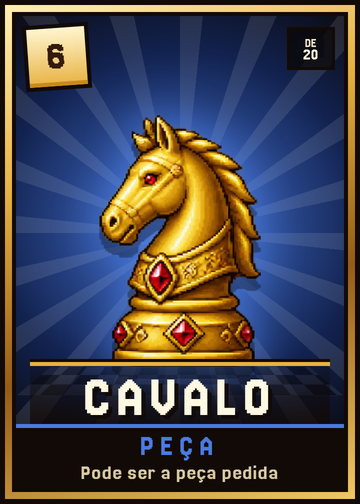
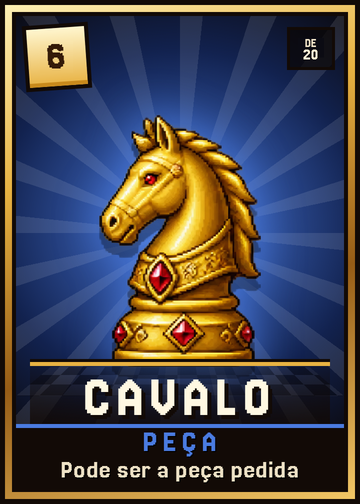
fix(xeque,home): R37.2 — círculo no centro do tabuleiro, cartas legíveis, cartas viram devagar, SAIR só com a palavra
- XEQUE: o tapete com a coroa volta ao centro do xadrez (estava 44 px abaixo); casas refeitas com as
  próprias casas da arte (tools/xeque_center_mat.py); monte e revelação acompanham o centro
- cartas do XEQUE: faixa de baixo redesenhada maior (PEÇA/CORINGA e a frase) e desenho nítido na mão
- XEQUE pedido: as cartas viram uma a uma, devagar (0,7 s cada), com som por carta; revelação 3,2 s
  (servidor espera o mesmo)
- Home: SAIR sem "Até a próxima partida!" e sem a legenda "Voltar para o site" por cima

Claude-Session: https://claude.ai/code/session_016vKvXoMfUjcNC2AWvYdkWV

Changed region(s): [[0.1528, 0.8333, 0.825, 0.9821]]

diff --git a/online_v021/modes/party.js b/online_v021/modes/party.js
@@ -26,7 +26,7 @@ const T = {
   swapMs: num(env.FRAIHA_PARTY_SWAP_MS, 3200),           // troca do J (marcha_ui.gd: 0,35 + até 2,4 + 0,35 s)
   mesaMs: num(env.FRAIHA_PARTY_MESA_MS, 4400),           // distribuição (DEAL_T 2,4 s) + carta da MESA (MESA_T 1,9 s) no xeque_ui.gd
   introMs: num(env.FRAIHA_PARTY_INTRO_MS, 3200),         // apresentação do baralho antes da 1ª rodada (INTRO_T)
-  revealMs: num(env.FRAIHA_PARTY_REVEAL_MS, 2600), clockMs: num(env.FRAIHA_PARTY_CLOCK_MS, 2400),
+  revealMs: num(env.FRAIHA_PARTY_REVEAL_MS, 3200), clockMs: num(env.FRAIHA_PARTY_CLOCK_MS, 2400),
   safeMs: num(env.FRAIHA_PARTY_SAFE_MS, 2000), mateMs: num(env.FRAIHA_PARTY_MATE_MS, 3800),
   keepEndedMs: 120000,
 };

diff --git a/tools/xeque_center_mat.py b/tools/xeque_center_mat.py
@@ -1,0 +1,52 @@
+"""R37.2 · XEQUE: o círculo (tapete com a coroa) volta ao CENTRO do tabuleiro xadrez da arte.
+Na arte aprovada ele estava 44 px abaixo do centro (centro do xadrez: x 836, y 498; tapete: y 542).
+  • as casas de xadrez debaixo do tapete antigo são refeitas com as próprias casas da arte, copiadas
+    de 2 casas ao lado (o xadrez repete a cada 131 px na horizontal e 113 px na vertical — mesma cor);
+  • o tapete (xeque/art/mesa/tapete.png, igual ao da arte) é colado de novo, centrado, com a mesma sombra.
+Entrada: tools/xeque_src/mesa_cena_com_tapete_original.png (sem alteração). Saída: xeque/art/mesa/mesa_cena_com_tapete.png
+Depois rode tools/xeque_scene_soft.py (versões esfumada e desfocada)."""
+import os
+import numpy as np
+import cv2
+from PIL import Image
+
+ROOT = os.path.join(os.path.dirname(__file__), "..")
+SRC = os.path.join(ROOT, "tools/xeque_src/mesa_cena_com_tapete_original.png")
+DST = os.path.join(ROOT, "xeque/art/mesa/mesa_cena_com_tapete.png")
+TAP = os.path.join(ROOT, "xeque/art/mesa/tapete.png")
+OLD = (715, 421)                     # canto do tapete na arte original (achado por correspondência exata)
+CENTER = (836, 498)                  # centro do xadrez
+BOARD = (583, 274, 1092, 724)        # casas do xadrez (x0, y0, x1, y1)
+PX, PY = 131, 113                    # período do xadrez (2 casas)
+
+sc = np.array(Image.open(SRC).convert("RGB")).astype(np.float64)
+tap = np.array(Image.open(TAP).convert("RGBA")).astype(np.float64)
+th, tw = tap.shape[:2]
+H, W = sc.shape[:2]
+# máscara do tapete antigo + sombra em volta (12 px)
+m = np.zeros((H, W), np.uint8)
+m[OLD[1]:OLD[1] + th, OLD[0]:OLD[0] + tw] = (tap[..., 3] > 8).astype(np.uint8)
+m = cv2.dilate(m, np.ones((31, 31), np.uint8))
+out = sc.copy()
+ys, xs = np.where(m > 0)
+cands = sorted([(k * PX, j * PY) for k in range(-4, 5) for j in range(-4, 5) if (k, j) != (0, 0)], key=lambda d: d[0] ** 2 + d[1] ** 2)
+for y, x in zip(ys, xs):
+    if not (BOARD[0] <= x <= BOARD[2] and BOARD[1] <= y <= BOARD[3]): continue
+    for dx, dy in cands:
+        sx, sy = x + dx, y + dy
+        if BOARD[0] + 2 <= sx <= BOARD[2] - 2 and BOARD[1] + 2 <= sy <= BOARD[3] - 2 and m[sy, sx] == 0:
+            out[y, x] = sc[sy, sx]
+            break
+dx, dy = CENTER[0] - (OLD[0] + tw / 2), CENTER[1] - (OLD[1] + th / 2)
+# sombra suave do tapete (como a da arte): alfa desfocado, um pouco para baixo
+nx0, ny0 = int(round(OLD[0] + dx)), int(round(OLD[1] + dy))
+al = np.zeros((H, W))
+al[ny0 + 6:ny0 + 6 + th, nx0:nx0 + tw] = tap[..., 3] / 255.0
+shadow = cv2.GaussianBlur(al, (0, 0), 7) * 0.45
+out = out * (1 - shadow[..., None])
+# tapete centrado
+nx, ny = int(round(OLD[0] + dx)), int(round(OLD[1] + dy))
+a = tap[..., 3:4] / 255.0
+out[ny:ny + th, nx:nx + tw] = out[ny:ny + th, nx:nx + tw] * (1 - a) + tap[..., :3] * a
+Image.fromarray(np.clip(out, 0, 255).astype(np.uint8)).save(DST)
+print("ok", (nx, ny), "deslocamento", dx, dy)

diff --git a/tools/xeque_card_legible.py b/tools/xeque_card_legible.py
@@ -1,0 +1,56 @@
+"""R37.2 · XEQUE: faixa de baixo das cartas legível na mão (pedido do dono: "não dá pra ler").
+Na mão a carta aparece com ~150 px de largura; a palavra (PEÇA / CORINGA) e a linha pequena
+("Pode ser a peça pedida") viravam 4–6 px. Aqui a faixa escura de baixo é redesenhada com as MESMAS
+palavras, a palavra ~1,6× e a linha ~2× maiores, na mesma fonte pixel (Jersey20) e nas mesmas cores.
+Entrada: tools/xeque_src/saida_r36/ (720×1008, saída de xeque_card_counts.py). Saída: a mesma pasta
+(…_legivel) e xeque/art/cartas/carta_<id>.png (360×504)."""
+import io
+import os
+import numpy as np
+from PIL import Image, ImageDraw, ImageFont
+from fontTools.ttLib import TTFont
+
+ROOT = os.path.join(os.path.dirname(__file__), "..")
+SRC = os.path.join(ROOT, "tools/xeque_src/saida_r36")
+GAME = os.path.join(ROOT, "xeque/art/cartas")
+TEXT = {"rei": ("PEÇA", "Pode ser a peça pedida"), "rainha": ("PEÇA", "Pode ser a peça pedida"),
+        "cavalo": ("PEÇA", "Pode ser a peça pedida"), "peao": ("CORINGA", "Vale como qualquer peça")}
+Y0, Y1, X0, X1 = 857, 978, 30, 690
+BG = (18, 10, 6)
+CREAM = (238, 226, 198)
+
+
+def font(size):
+    f = TTFont(os.path.join(ROOT, "xeque/art/fontes/Jersey20-Regular.woff2")); f.flavor = None
+    buf = io.BytesIO(); f.save(buf); buf.seek(0)
+    return ImageFont.truetype(buf, size)
+
+
+def spaced(d, cx, y, s, f, fill, sp):
+    w = sum(d.textlength(c, font=f) for c in s) + sp * (len(s) - 1)
+    x = cx - w / 2
+    for c in s:
+        d.text((x + 2, y + 2), c, font=f, fill=(0, 0, 0))
+        d.text((x, y), c, font=f, fill=fill)
+        x += d.textlength(c, font=f) + sp
+
+
+for n, (word, line) in TEXT.items():
+    im = Image.open(os.path.join(SRC, "carta_%s.png" % n)).convert("RGBA")
+    a = np.array(im).astype(np.int32)
+    reg = a[Y0:Y0 + 66, X0:X1, :3].reshape(-1, 3)
+    sat = reg.max(axis=1) - reg.min(axis=1)
+    col = tuple(int(v) for v in np.median(reg[sat > 60], axis=0))
+    a[Y0:Y1, X0:X1, :3] = BG
+    im = Image.fromarray(a.astype(np.uint8), "RGBA")
+    d = ImageDraw.Draw(im)
+    fw = font(64)
+    spaced(d, 360, Y0 - 6, word, fw, col, 10)
+    size = 52
+    fl = font(size)
+    while d.textlength(line, font=fl) > X1 - X0 - 24 and size > 30:
+        size -= 1; fl = font(size)
+    spaced(d, 360, Y0 + 56, line, fl, CREAM, 1)
+    im.save(os.path.join(SRC, "carta_%s_legivel.png" % n))
+    im.resize((360, 504), Image.LANCZOS).save(os.path.join(GAME, "carta_%s.png" % n))
+print("ok")

diff --git a/tools/home_ref_v7.py b/tools/home_ref_v7.py
@@ -127,5 +127,13 @@ out = fill_dark(out, m)
 m = np.zeros(out.shape[:2], np.uint8); cv2.rectangle(m, (126, 856), (302, 908), 255, -1)
 out = fill_dark(out, m, 10)
 
+# ---------- 4. SAIR: fica só a palavra (R37.2, pedido do dono): some "Até a próxima partida!" ----------
+x0, x1 = 690, 868
+for y in range(864, 884):
+    L = out[y, x0 - 3:x0].astype(np.float64).mean(axis=0)
+    R = out[y, x1:x1 + 3].astype(np.float64).mean(axis=0)
+    t = np.linspace(0, 1, x1 - x0)[:, None]
+    out[y, x0:x1] = (L * (1 - t) + R * t).astype(np.uint8)
+
 Image.fromarray(out).save(OUT, optimize=True)
 print("ok", OUT)
